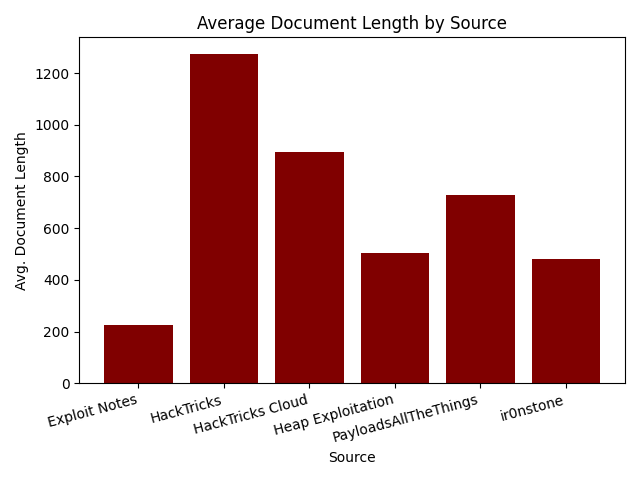
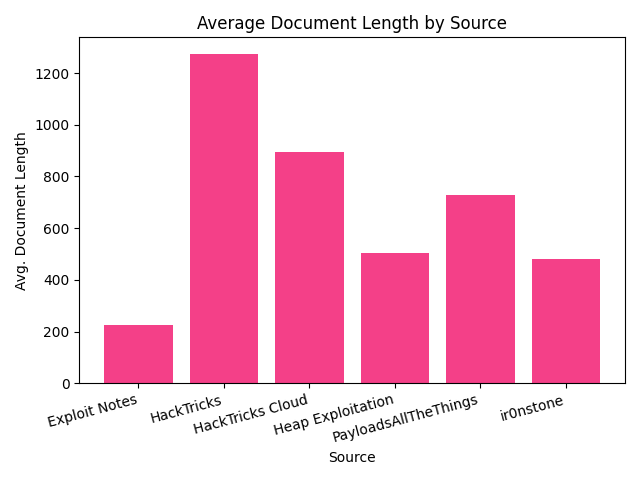
analytics changes

Changed region(s): [[0.1562, 0.0938, 0.9375, 0.8125]]

diff --git a/src/hackermind.py b/src/hackermind.py
@@ -34,19 +34,22 @@ def analyze_data():
     print(f"Total documents: {sum(dcs.values())}")
     print(f"Document counts: {dcs}")
 
+    ### Documents by source
     x = list(dcs.keys())
     y = list(dcs.values())
 
     f1 = plt.figure(1)
-    plt.bar(x, y, color='maroon')
+    plt.bar(x, y, color='#f44088')
     plt.xlabel('Sources')
     plt.ylabel('# of Documents')
     plt.title('Number of Documents by Source')
     plt.xticks(rotation=15, ha='right')
     plt.tight_layout()
-    plt.savefig(get_project_root().joinpath('static/docs_by_category.png'))
+    plt.savefig(get_project_root().joinpath('static/docs_by_source.png'))
+    ###
 
 
+    ### Average document length by source
     avdls = {}
     for source in docs.keys():
         tdl = 0
@@ -61,13 +64,52 @@ def analyze_data():
     y = list(avdls.values())
 
     f2 = plt.figure(2)
-    plt.bar(x, y, color='maroon')
+    plt.bar(x, y, color='#f44088')
     plt.xlabel('Source')
     plt.ylabel('Avg. Document Length')
     plt.title('Average Document Length by Source')
     plt.xticks(rotation=15, ha='right')
     plt.tight_layout()
     plt.savefig(get_project_root().joinpath('static/avg_doc_len_by_source.png'))
+    ###
+
+    ### All documents by length histogram
+    #dls = {f'{i-200}-{i}': 0 for i in range(200, 12000, 200)}
+    values = []
+    for source in docs.keys():
+        for doc in docs[source]:
+            values.append(len(doc['body']))
+            #nlen = int(len(doc['body']) / 200) * 200
+            #dls[f'{nlen}-{nlen+200}'] = dls.get(f'{nlen}-{nlen+200}', 0) + 1
+
+    f3 = plt.figure(3)
+    #plt.bar(list(dls.keys()), list(dls.values()), color='maroon', width=0.7)
+    plt.hist(values, 250, color='#00a8f7')
+    plt.xlabel('Document Length')
+    plt.ylabel('Document Count')
+    plt.title('Documents by Length')
+    #plt.xticks(rotation=90, ha='right')
+    plt.tight_layout()
+    plt.savefig(get_project_root().joinpath('static/docs_by_len.png'))
+    ###
+
+    ### All doc length histogram by source
+    values = []
+    sources = [getattr(SourceNames, s).value for s in list(docs.keys())]
+    for source in docs.keys():
+        values.append([])
+        for doc in docs[source]:
+            values[-1].append(len(doc['body']))
+
+    f4 = plt.figure(4)
+    plt.hist(values, 250, stacked=True, color=['#ffc725', '#fa8b57', '#f44088', '#00f0f7', '#00d3f6', '#00a8f7'])
+    plt.legend(sources)
+    plt.xlabel('Document Length')
+    plt.ylabel('Document Count')
+    plt.title('Document Lengths by Source')
+    plt.tight_layout()
+    plt.savefig(get_project_root().joinpath('static/source_docs_by_len.png'))
+    ###
 
 
 def score():
@@ -86,7 +128,7 @@ def score():
         docscores = {k: v for k, v in sorted(docscores.items(), key=lambda item: item[1])}
 
         print(f'================ Query: {q} ================')
-        for i in list(docscores.keys())[-5::][::-1]:
+        for i in list(docscores.keys())[-10::][::-1]:
             print(docscores[i], i)
         print(f'========================={"="*len(q)}================\n\n')
 
